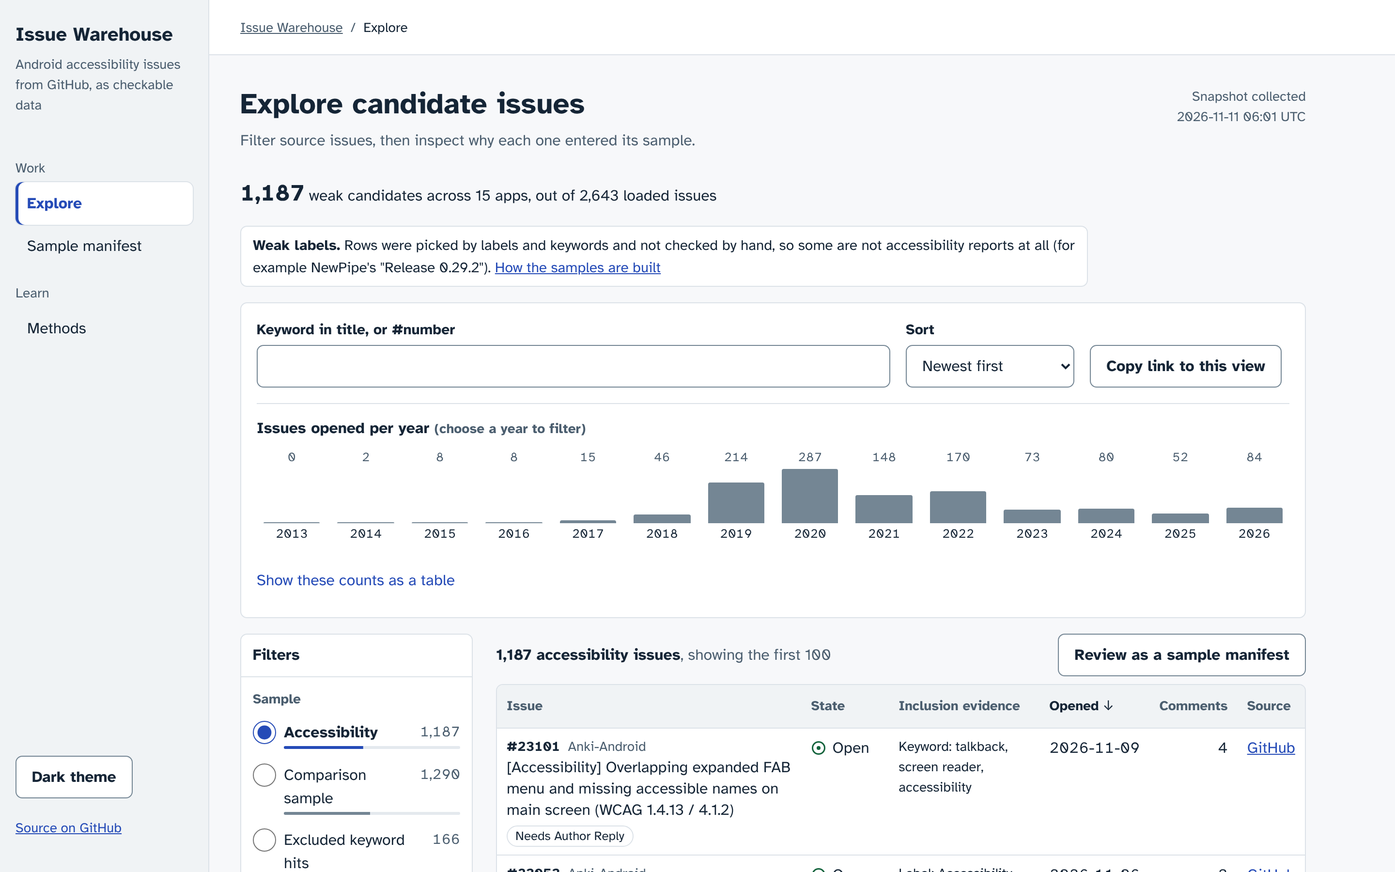
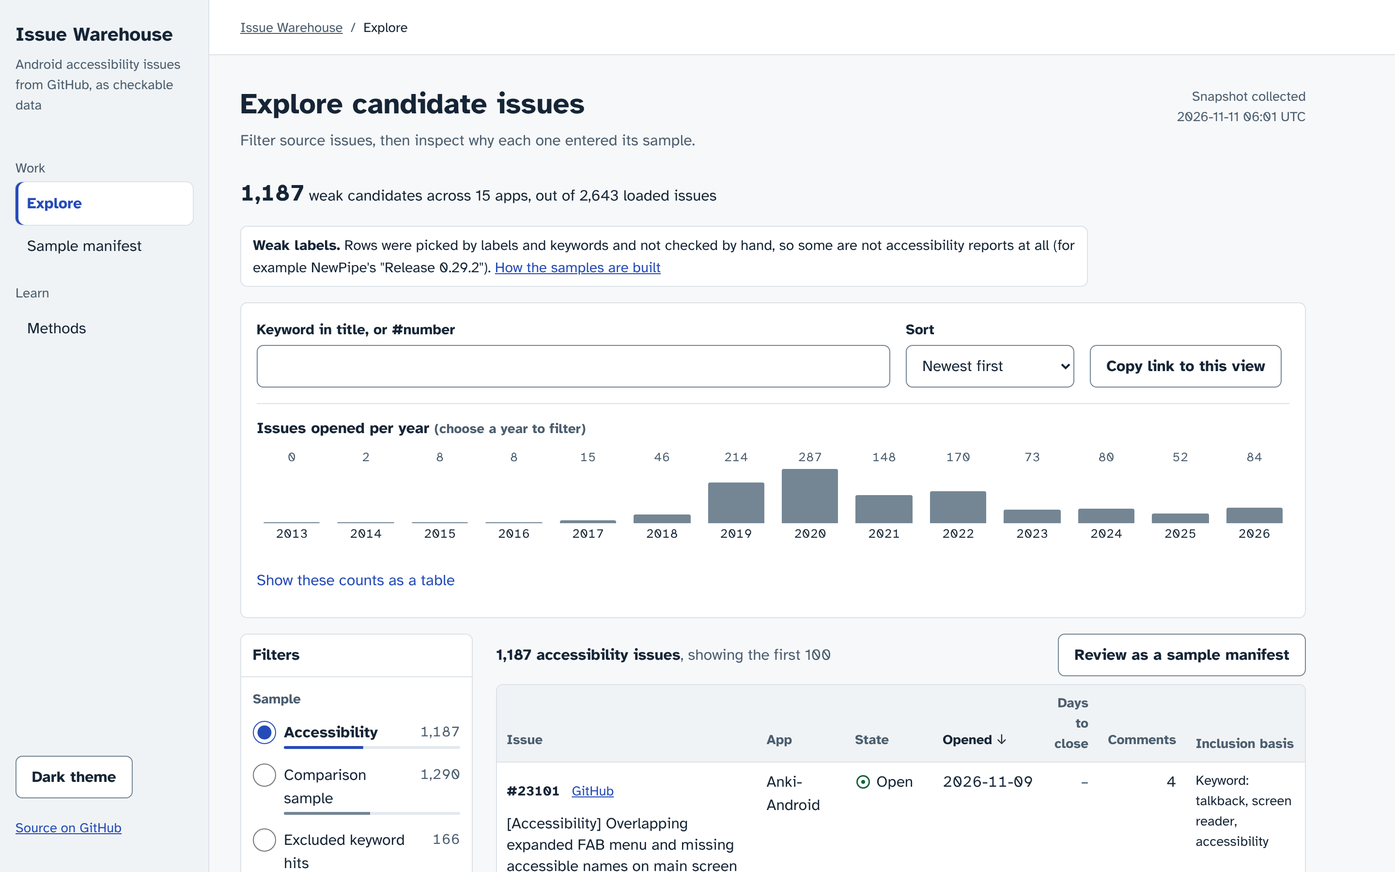
Explorer review fixes: 44 px targets, restored columns, stacked rows, tests
- In-app Back/Forward test for a filter and a year bar; fails when the
  syncFromURL state branch is disabled (sabotage run in the PR body).
- Menu Escape/Close focus test also covers the pointer path, so it fails
  without the page's close handler.
- 44 px targets for chips, GitHub links, title and sort buttons, with a
  test over Explore and Manifest at 320 and 1440 px.
- Days to close and App columns restored with their sort tests.
- Issues table stacks its rows (container query, < 820 px) instead of
  scrolling at 1000-1360 px; the scroll hint shows only when it scrolls.
- Meta description without hardcoded counts; manifest preview rendered only
  on its route; "Inclusion basis" used everywhere; year-only strip
  documented; download buttons above the caveat.
- anti-slop R-39: footer landmark, pointer layer, active states; primary
  button hover no longer turns light behind white text.

make e2e: 75 passed; make test: 103 passed.

Claude-Session: https://claude.ai/code/session_01SBDy3AAAGa7xAC8BzFcKKn

diff --git a/docs/explorer.css b/docs/explorer.css
@@ -20,7 +20,17 @@ html{font-size:16px}
 body{background:var(--canvas);line-height:1.5}
 h1,h2,h3{line-height:1.2}
 h1{font-size:1.875rem;margin:0 0 8px}
+/* Programmatic focus targets (route headings, the results region) get no ring; every
+   interactive control keeps the ui.css :focus-visible ring (anti-slop R-32). */
 [tabindex="-1"]:focus{outline:none}
+/* anti-slop R-39: one pointer layer for every enabled control, distinct active state. */
+a[href],button:not(:disabled),summary,select:not(:disabled),label[for],input[type="checkbox"],input[type="radio"]{cursor:pointer}
+button:disabled,select:disabled,input:disabled{cursor:not-allowed}
+.btn:active,.chip:active,.tl-bar:active{background:var(--bg-inset)}
+.btn.primary:hover{background:#1f3f9c;border-color:#1f3f9c}
+.btn.primary:active{background:#19337f;border-color:#19337f}
+:root[data-theme="dark"] .btn.primary:hover{background:#b8caff;border-color:#b8caff}
+:root[data-theme="dark"] .btn.primary:active{background:#cfdbff;border-color:#cfdbff}
 .small{font-size:.875rem}
 .btn{min-height:44px;padding:8px 16px;border-color:var(--border-strong);background:var(--bg)}
 .btn.primary{border-color:var(--accent)}
@@ -89,7 +99,7 @@ h2.sub{font-size:1rem;margin:0 0 8px}
 .chips{display:flex;flex-wrap:wrap;align-items:center;gap:8px;margin-top:12px}
 .chips.none{display:none}
 .chips ul{display:flex;flex-wrap:wrap;gap:8px;list-style:none;margin:0;padding:0}
-.chip{display:inline-flex;align-items:center;gap:6px;min-height:36px;max-width:100%;padding:4px 6px 4px 12px;border:1px solid var(--border-strong);border-radius:2em;background:var(--accent-subtle);color:var(--fg);font:inherit;font-size:.9375rem;cursor:pointer;text-align:left}
+.chip{display:inline-flex;align-items:center;gap:6px;min-height:44px;max-width:100%;padding:4px 6px 4px 12px;border:1px solid var(--border-strong);border-radius:2em;background:var(--accent-subtle);color:var(--fg);font:inherit;font-size:.9375rem;cursor:pointer;text-align:left}
 .chip span:first-child{overflow:hidden;text-overflow:ellipsis;white-space:nowrap;max-width:60vw}
 .chip .x{display:inline-flex;align-items:center;justify-content:center;width:24px;height:24px;border-radius:50%;font-size:1.05em;line-height:1}
 .chip:hover .x{background:var(--bg-inset)}
@@ -116,22 +126,21 @@ h2.sub{font-size:1rem;margin:0 0 8px}
 .find-label{display:block;font-size:.875rem;margin-bottom:4px}
 #label-find{width:100%;margin-bottom:8px}
 
-.results{min-width:0}
+.results{min-width:0;container:results / inline-size}
 .results:focus{outline:none}
 .results-head{display:flex;flex-wrap:wrap;justify-content:space-between;align-items:center;gap:8px;margin-bottom:8px}
 #count{margin:0}
 .load-error{padding:12px;border:1px solid var(--bad);border-radius:var(--radius);background:var(--bad-subtle);color:var(--fg)}
-.scroll-hint{display:none;margin:0 0 8px;font-size:.875rem}
+.scroll-hint{margin:0 0 8px;font-size:.875rem}
 .c-key{display:none}
 .table-wrap{position:relative;overflow-x:auto;border:1px solid var(--border);border-radius:var(--radius);background:var(--bg)}
 .table-wrap:focus-visible{outline:2px solid var(--focus);outline-offset:2px}
 th{background:var(--bg-subtle);color:var(--fg-muted);font-size:.875rem}
 th,td{border-bottom-color:var(--border);padding:8px 12px}
 #table th,#table td{padding-left:10px;padding-right:10px}
-#table{min-width:700px}
-#table thead th{padding:0;white-space:nowrap}
-#table thead th.nosort{padding:8px 10px;vertical-align:middle}
-#table thead th button{all:unset;box-sizing:border-box;display:flex;align-items:center;gap:4px;width:100%;min-height:44px;padding:8px 10px;cursor:pointer}
+#table thead th{padding:0;vertical-align:bottom}
+#table thead th.nosort{padding:8px 10px}
+#table thead th button{all:unset;box-sizing:border-box;display:flex;align-items:center;gap:4px;width:100%;min-height:44px;min-width:44px;padding:8px 10px;cursor:pointer}
 #table thead th.num button{justify-content:flex-end}
 #table thead th button:focus-visible{outline:2px solid var(--focus);outline-offset:-2px}
 #table thead th[aria-sort] button{color:var(--fg)}
@@ -141,14 +150,15 @@ th,td{border-bottom-color:var(--border);padding:8px 12px}
 #table tbody tr:last-child td{border-bottom:0}
 td.num,th.num{text-align:right;font-variant-numeric:tabular-nums}
 .c-title{min-width:200px}
-.c-ref{display:flex;gap:8px;font-size:.875rem}
+.c-app{min-width:88px;overflow-wrap:anywhere}
+.c-ref{display:flex;align-items:center;gap:12px;font-size:.875rem}
 .num-ref{font-weight:700;font-variant-numeric:tabular-nums}
-.title-btn{all:unset;box-sizing:border-box;display:inline;color:var(--fg);cursor:pointer;overflow-wrap:anywhere;line-height:1.4}
+.title-btn{all:unset;box-sizing:border-box;display:flex;align-items:center;min-height:44px;color:var(--fg);cursor:pointer;overflow-wrap:anywhere;line-height:1.4}
 .title-btn:hover{color:var(--accent);text-decoration:underline}
 .title-btn:focus-visible{outline:2px solid var(--focus);outline-offset:2px;border-radius:2px}
 .c-labels{display:flex;flex-wrap:wrap;gap:4px;margin-top:4px}
 .c-labels .label{font-size:.8125rem;line-height:20px;max-width:220px;overflow:hidden;text-overflow:ellipsis;white-space:nowrap}
-.c-evidence{font-size:.875rem;min-width:120px}
+.c-evidence{font-size:.875rem;min-width:116px}
 .c-evidence .ev{display:block}
 .c-date{white-space:nowrap;font-variant-numeric:tabular-nums}
 .c-state{display:inline-flex;align-items:center;gap:6px;white-space:nowrap}
@@ -156,10 +166,12 @@ td.c-state{display:table-cell}
 td.c-state .st-icon{vertical-align:-3px;margin-right:6px}
 .st-icon.open{color:var(--ok)}
 .st-icon.closed{color:var(--fg-muted)}
-.c-src{white-space:nowrap}
-.gh-link{display:inline-flex;align-items:center;min-height:24px}
+.gh-link{display:inline-flex;align-items:center;min-height:44px;min-width:44px}
 td.empty{padding:24px 12px;text-align:center}
 .more{display:flex;justify-content:center;padding:16px 0}
+.foot{margin-top:auto;padding:16px 32px;border-top:1px solid var(--border);background:var(--bg);font-size:.875rem;color:var(--fg-muted)}
+.foot p{margin:0;max-width:90ch}
+.foot a{display:inline-flex;align-items:center;min-height:44px}
 
 /* ---------- Sample manifest ---------- */
 .status-line{margin:0 0 16px}
@@ -224,7 +236,6 @@ dialog.sheet[open]{display:flex;flex-direction:column;gap:8px}
   .facets[open] #facet-list{display:grid;grid-template-columns:repeat(auto-fill,minmax(min(100%,240px),1fr))}
   .facet{border-bottom:0;border-top:1px solid var(--border)}
   .facet:first-child{border-top:0}
-  .scroll-hint{display:block}
 }
 /* Intermediate widths: no permanent rail; the header Menu button opens the sheet. */
 @media (max-width:999px){
@@ -239,11 +250,12 @@ dialog.sheet[open]{display:flex;flex-direction:column;gap:8px}
   .snapshot{text-align:left}
   .filters{padding:12px}
   dialog#detail{padding:12px 16px 20px}
-  .scroll-hint{display:none}
-  /* Phones: each issue is a stacked row, so nothing scrolls sideways. Roles are set in the
-     markup so the cells are still announced as a table. */
+}
+/* When the results column is narrower than the seven columns need (phones, and 1000-1360 px
+   desktops where the rail and facets take room), each issue is a stacked row, so nothing
+   scrolls sideways. Roles are set in the markup so the cells are still announced as a table. */
+@container results (max-width:819px){
   #table,#table thead,#table tbody,#table tr,#table th,#table td{display:block}
-  #table{min-width:0}
   #table thead tr{display:flex;flex-wrap:wrap;gap:0 4px;padding:2px 4px;background:var(--bg-subtle);border-bottom:1px solid var(--border)}
   #table thead th{border:0;background:none}
   #table thead th.nosort{display:none}

diff --git a/docs/explorer.js b/docs/explorer.js
@@ -315,7 +315,7 @@
     const body = $('rows');
     body.replaceChildren();
     if (!view.length) {
-      body.append(el('tr', { role: 'row' }, el('td', { role: 'cell', colspan: 6, class: 'empty' },
+      body.append(el('tr', { role: 'row' }, el('td', { role: 'cell', colspan: 7, class: 'empty' },
         'No issues match. ', el('button', { type: 'button', class: 'btn link', 'data-action': 'clear', text: 'Clear filters' }))));
     }
     for (const issue of view.slice(0, shown)) body.append(row(issue));
@@ -327,6 +327,14 @@
       else th.removeAttribute('aria-sort');
     }
     $('sort').value = SORT_OPTIONS.has(`${state.sort}:${state.dir}`) ? `${state.sort}:${state.dir}` : '';
+    updateScrollHint();
+  }
+
+  // The hint is shown exactly when the table is wider than its region (it normally stacks
+  // its rows instead of scrolling, so this is a fallback, never the plan).
+  function updateScrollHint() {
+    const wrap = document.querySelector('#results .table-wrap');
+    $('scroll-hint').hidden = !(wrap.offsetWidth && wrap.scrollWidth > wrap.clientWidth + 1);
   }
 
   // Explicit table roles keep rows and cells announced as a table when the narrow
@@ -338,16 +346,20 @@
     const [, name] = issue.repo.split('/');
     return el('tr', { role: 'row' },
       cell({ class: 'c-title' },
-        el('span', { class: 'c-ref' }, el('span', { class: 'num-ref', text: `#${issue.number}` }), el('span', { class: 'muted', title: issue.repo, text: name })),
+        el('span', { class: 'c-ref' }, el('span', { class: 'num-ref', text: `#${issue.number}` }),
+          el('a', { class: 'gh-link', href: issue.url, rel: 'noopener noreferrer', text: 'GitHub' },
+            el('span', { class: 'sr-only', text: ` issue ${issue.repo} #${issue.number}` }))),
         el('button', { type: 'button', class: 'title-btn', 'data-idx': String(issue.idx), text: issue.title }),
         issue.labels.length ? el('span', { class: 'c-labels' }, ...issue.labels.slice(0, 3).map((l) => el('span', { class: 'label', text: l })),
           issue.labels.length > 3 ? el('span', { class: 'muted small', text: `+${issue.labels.length - 3}` }) : null) : null),
+      cell({ class: 'c-app' }, el('span', { title: issue.repo, text: name })),
       cell({ class: `c-state ${issue.state}` }, stateIcon(issue.state), el('span', { text: issue.state === 'open' ? 'Open' : 'Closed' })),
-      cell({ class: 'c-evidence' }, key('Evidence'), ...M.evidence(issue, data).map((t) => el('span', { class: 'ev', text: t }))),
       cell({ class: 'c-date' }, key('Opened'), el('time', { datetime: issue.created, text: day(issue.created) })),
+      cell({ class: 'num' }, key('Days to close'), issue.days === null
+        ? el('span', null, el('span', { 'aria-hidden': 'true', class: 'muted', text: '–' }), el('span', { class: 'sr-only', text: 'not closed' }))
+        : el('span', { text: nf.format(Math.round(issue.days)) })),
       cell({ class: 'num' }, key('Comments'), el('span', { text: nf.format(issue.comments) })),
-      cell({ class: 'c-src' }, el('a', { class: 'gh-link', href: issue.url, rel: 'noopener noreferrer', text: 'GitHub' },
-        el('span', { class: 'sr-only', text: ` issue ${issue.repo} #${issue.number}` }))));
+      cell({ class: 'c-evidence' }, key('Inclusion basis'), ...M.evidence(issue, data).map((t) => el('span', { class: 'ev', text: t }))));
   }
 
   function renderChips() {
@@ -376,7 +388,7 @@
     renderTimeline();
     renderChips();
     renderResults(resetPage);
-    renderManifest();
+    if (route === 'manifest') renderManifest(); // built only when its screen is shown
     if ($('q') !== document.activeElement) $('q').value = state.q;
   }
 
@@ -408,7 +420,7 @@
         el('td', null, el('span', { class: 'id', text: i.id })),
         el('td', { text: i.state }),
         el('td', { text: M.inclusionBasis(i, data).join('; ') }),
-        el('td', null, el('a', { href: i.url, rel: 'noopener noreferrer', text: 'GitHub' }, el('span', { class: 'sr-only', text: ` issue ${i.id}` })))));
+        el('td', null, el('a', { class: 'gh-link', href: i.url, rel: 'noopener noreferrer', text: 'GitHub' }, el('span', { class: 'sr-only', text: ` issue ${i.id}` })))));
     }
     $('manifest-shown').textContent = list.length > MANIFEST_PREVIEW
       ? `(showing ${nf.format(MANIFEST_PREVIEW)} of ${nf.format(list.length)}; the download has all of them)` : '';
@@ -594,6 +606,8 @@
       else a.removeAttribute('aria-current');
     }
     if (next !== 'explore') closeDetail();
+    if (next === 'manifest' && data && !loadError) renderManifest();
+    if (next === 'explore' && data && !loadError) updateScrollHint();
     if (next === 'methods' && data) drawChart();
     if (section) {
       $(section).scrollIntoView();
@@ -804,6 +818,7 @@
         const w = $('chart').clientWidth;
         if (w && Math.abs(w - last) > 8) { last = w; drawChart(); }
       }).observe($('chart'));
+      new ResizeObserver(() => { if (route === 'explore') updateScrollHint(); }).observe(document.querySelector('#results .table-wrap'));
     }
     if (window.matchMedia('(max-width: 899px)').matches) $('facets').open = false;
   }
@@ -826,7 +841,7 @@
       node.setAttribute('role', 'alert');
       node.textContent = msg;
     }
-    $('rows').replaceChildren(el('tr', { role: 'row' }, el('td', { role: 'cell', colspan: 6, class: 'empty', text: 'No issues to show: the data file did not load.' })));
+    $('rows').replaceChildren(el('tr', { role: 'row' }, el('td', { role: 'cell', colspan: 7, class: 'empty', text: 'No issues to show: the data file did not load.' })));
     $('manifest-rows').replaceChildren(el('tr', null, el('td', { colspan: 4, class: 'empty', text: 'No manifest: the data file did not load.' })));
     $('chart').replaceChildren(el('p', { class: 'muted', text: 'Chart unavailable: the data file did not load.' }));
     for (const id of ['summary-candidates', 'summary-apps', 'summary-all', 'manifest-count', 'manifest-apps', 'manifest-filter', 'manifest-hash']) $(id).textContent = 'unavailable';

diff --git a/docs/index.html b/docs/index.html
@@ -6,7 +6,7 @@
 <meta http-equiv="Content-Security-Policy" content="default-src 'none'; script-src 'self'; style-src 'self'; font-src 'self'; img-src 'self'; connect-src 'self'; base-uri 'none'; form-action 'none'">
 <meta name="referrer" content="no-referrer">
 <title>Explore – Issue Warehouse</title>
-<meta name="description" content="Browse 2,643 GitHub issues from 15 open-source Android apps: accessibility-issue candidates and a date-matched comparison sample, with filters, an issues-over-time strip and a downloadable sample manifest.">
+<meta name="description" content="Browse GitHub issues from open-source Android apps: accessibility-issue candidates selected by labels and keywords, and a date-matched comparison sample, with filters, an issues-per-year strip and a downloadable sample manifest.">
 <meta name="theme-color" content="#f7f8fa">
 <link rel="icon" href="favicon.svg" type="image/svg+xml">
 <link rel="stylesheet" href="ui.css">
@@ -126,18 +126,19 @@
               <p id="count" aria-live="polite" aria-atomic="true">Loading issues…</p>
               <a class="btn" href="#/manifest" id="to-manifest">Review as a sample manifest</a>
             </div>
-            <p class="scroll-hint muted" id="scroll-hint">The table scrolls sideways: State, Inclusion evidence, Opened and Source are to the right of the issue.</p>
+            <p class="scroll-hint muted" id="scroll-hint" hidden>The table scrolls sideways: more columns are to the right of the issue.</p>
             <div class="table-wrap" role="region" aria-label="Issues table" aria-describedby="scroll-hint" tabindex="0">
               <table id="table" role="table">
                 <caption class="sr-only">Issues matching the filters. Choose a title to inspect it.</caption>
                 <thead role="rowgroup">
                   <tr role="row">
                     <th scope="col" role="columnheader" data-key="title"><button type="button">Issue</button></th>
+                    <th scope="col" role="columnheader" data-key="repo"><button type="button">App</button></th>
                     <th scope="col" role="columnheader" data-key="state"><button type="button">State</button></th>
-                    <th scope="col" role="columnheader" class="nosort">Inclusion evidence</th>
                     <th scope="col" role="columnheader" data-key="created"><button type="button">Opened</button></th>
+                    <th scope="col" role="columnheader" data-key="days" class="num"><button type="button">Days to close</button></th>
                     <th scope="col" role="columnheader" data-key="comments" class="num"><button type="button">Comments</button></th>
-                    <th scope="col" role="columnheader" class="nosort">Source</th>
+                    <th scope="col" role="columnheader" class="nosort">Inclusion basis</th>
                   </tr>
                 </thead>
                 <tbody id="rows" role="rowgroup"></tbody>
@@ -173,13 +174,13 @@
           </section>
         </div>
 
-        <p class="note"><strong>Label quality.</strong> <span id="manifest-caveat">Weak labels, not human ground truth.</span></p>
-
         <div class="download-bar">
           <button type="button" class="btn primary" id="dl-csv" disabled>Download CSV</button>
           <button type="button" class="btn" id="dl-json" disabled>Download JSON</button>
           <span class="muted small">Each row has the issue id, GitHub source URL, inclusion basis, filter, snapshot date and data hash.</span>
         </div>
+
+        <p class="note"><strong>Label quality.</strong> <span id="manifest-caveat">Weak labels, not human ground truth.</span></p>
 
         <h2 class="sub" id="mf-preview">Issues in the set <span id="manifest-shown" class="muted small"></span></h2>
         <div class="table-wrap" role="region" aria-label="Issues in the manifest" tabindex="0">
@@ -281,6 +282,9 @@
         <p><a class="btn primary" href="#/explore">Go to Explore</a></p>
       </section>
     </main>
+    <footer class="foot">
+      <p>Data: GitHub search API snapshot of <time data-bind="collected">2026-11-11</time>; issue titles belong to their authors. Built with AI assistance (Claude). <a href="https://github.com/anirudh763/a11y-issue-warehouse">Source and data on GitHub</a></p>
+    </footer>
   </div>
 </div>
 

diff --git a/docs/model.js b/docs/model.js
@@ -18,7 +18,7 @@
     label: "Has the app's accessibility label", talkback: 'Mentions TalkBack',
     'screen-reader': 'Mentions screen reader', accessibility: 'Mentions accessibility', a11y: 'Mentions a11y',
   };
-  const FILTERS = [['app', 'App'], ['category', 'Accessibility evidence'], ['state', 'State'],
+  const FILTERS = [['app', 'App'], ['category', 'Inclusion basis'], ['state', 'State'],
     ['year', 'Year opened'], ['label', 'GitHub label']];
   const CAVEAT = 'Weak labels, not human ground truth. Issues were selected by GitHub labels and ' +
     'search keywords and were not checked by hand. The accessibility sample includes feature ' +

diff --git a/README.md b/README.md
@@ -45,9 +45,11 @@ on GitHub Pages):
 
 - **Explore** (`#/explore`, the default) opens on the accessibility-issue sample (1,187
   issues from 15 apps), newest first. Each row shows the issue number, app, title, state,
-  why it was included (label or search words) and a GitHub link. Facets with live counts
+  opened date, days to close, comments, why it was included (inclusion basis: label or
+  search words) and a GitHub link; rows stack when the column is narrow. Facets with live counts
   filter by sample, app, inclusion basis, state and GitHub label; a strip of issues opened per
-  year (one button per year, with a table alternative) filters by year. Search titles or
+  year (one button per year, with a table alternative; year granularity only) filters by
+  year. Search titles or
   `#number`. Filters are kept in the address, for example
   `?app=signalapp/Signal-Android&state=open#/explore`. Choosing a title opens a panel with
   its labels, dates, which queries returned it and which search words it contains.
@@ -275,7 +277,7 @@ What this shows and does not show:
 
 ```
 make test   ->  79 passed
-make e2e    ->  66 passed (+1 screenshot test that runs only with SCREENSHOTS=1)
+make e2e    ->  75 passed (+1 screenshot test that runs only with SCREENSHOTS=1)
 ```
 
 `make test` counted 79 when this section was first written; it is 103 now (`python3 -m pytest -q tests`).
@@ -305,7 +307,10 @@ keeps focus inside, closes with Escape and returns focus; a route change moves f
 H1 and updates the title and `aria-current`; Back/Forward and deep links restore the screen
 and its filters; old links and unknown routes; light by default under an OS dark preference
 and dark only by choice (also when storage is blocked); the CSP is unchanged; the year strip's
-counts equal SQL, it works from the keyboard and its table has the same numbers.
+counts equal SQL, it works from the keyboard and its table has the same numbers; in-app
+Back/Forward revert and reapply a filter; every control on Explore and Sample manifest is at
+least 44 x 44 px at 320 and 1440 px; and the issues table does not scroll sideways at 1000,
+1250 or 1440 px (rows stack instead).
 `tests/web/manifest.test.mjs` downloads the manifest for 5 filter sets and checks that its ids
 equal the ids SQL selects (`expected_count.py --ids`), that the label basis matches the
 warehouse's `issue_sources`, that the hash equals the SHA-256 of the served file, and that an

diff --git a/DESIGN.md b/DESIGN.md
@@ -22,7 +22,7 @@ typography:
   mono: { family: "system ui-monospace", size: 14px, use: "the SHA-256 of the data file only" }
 spacing: [4, 8, 16, 24, 32]
 rounded: { control: 7px, label: 2em }
-targets: { controls: "44px min height", filter inputs: "24x24 inside a 44px row", year bars: "44px wide, 44px+ tall" }
+targets: { all controls: "44x44 CSS px min (tested on Explore and Manifest at 320 and 1440)", filter inputs: "24x24 inside a 44px clickable row", inline prose links: "exempt (WCAG 2.5.8)" }
 elevation: flat (1px borders; dialogs use a backdrop, no shadows)
 motion: none (state changes only; reduced motion respected)
 ---
@@ -39,7 +39,12 @@ WCAG 2.2 AA wins over anything here.
   gutter and about 1100 px of content.
 - Below 1000 px there is no permanent rail: a labelled **Menu** button opens a modal sheet
   (Escape closes it, focus returns to Menu, Tab wraps inside it).
-- Phones (640 px and below): 16 px gutter; issue rows stack so no column scrolls off screen.
+- Phones (640 px and below): 16 px gutter.
+- The issues table has seven columns (Issue with its GitHub link, App, State, Opened, Days to
+  close, Comments, Inclusion basis). When the results column is narrower than 820 px (a
+  container query, so phones and 1000-1360 px desktops alike) each issue becomes a stacked row
+  with labelled values and the header becomes a bar of sort buttons, instead of the table
+  scrolling sideways. If the table ever does scroll, a "scrolls sideways" hint is shown.
 
 ## Routes
 Hash routes so GitHub Pages can serve them: `#/explore` (default), `#/manifest`, `#/methods`;
@@ -54,6 +59,10 @@ result rows, as in a library or open-data catalogue. Above them an issues-over-t
 one button per year; its count follows every other filter, pressing it toggles the year filter
 (`aria-pressed`), and a "Show these counts as a table" disclosure gives the same numbers as a
 table. The year filter has no separate checkbox list; the strip is that filter.
+The strip is **year-only by design**: the snapshot spans 2013-2026 (14 bars), and monthly bars
+(about 160) would be too narrow to read or to hit at 44 px. Month filtering is not offered.
+The filter is called "Inclusion basis" everywhere (facet, chips, manifest filter definition,
+table column).
 
 ## Rules kept from the previous design
 - Issue text is untrusted: it reaches the page only through `textContent` or attributes.

diff --git a/CHANGELOG.md b/CHANGELOG.md
@@ -7,15 +7,16 @@
   on desktop, a Menu sheet below 1000 px, breadcrumb header, focus on the H1 after each route
   change. Light by default even under an OS dark preference; dark via a remembered button.
   Old links (`#about`, `#leakage`, `?app=...`) still work. CSP unchanged.
-- Explore rows now show the issue number, app, inclusion evidence and a GitHub link; an
-  issues-opened-per-year strip (keyboard operable, with a table alternative) replaces the
-  year checkbox list.
+- Explore rows show the issue number with a GitHub link, app, state, opened, days to close,
+  comments and inclusion basis (all sortable columns kept); rows stack when the results
+  column is under 820 px. An issues-opened-per-year strip (keyboard operable, with a table
+  alternative, year granularity) replaces the year checkbox list. All controls are 44 px.
 - Sample manifest: download the current filtered set as CSV or JSON with ids, GitHub URLs,
   inclusion basis, filter definition and query, snapshot date, the SHA-256 of
   `data/issues.json` and the weak-label caveat (`docs/model.js`). CSV cells that start with
   `= + - @` are prefixed with `'` so spreadsheets do not run them.
-- Tests: `tests/web/gate.test.mjs` (17) and `tests/web/manifest.test.mjs` (9); `make e2e` runs
-  all three browser files (66 tests). `tests/web/expected_count.py --ids` lists ids from SQL.
+- Tests: `tests/web/gate.test.mjs` (26) and `tests/web/manifest.test.mjs` (9); `make e2e` runs
+  all three browser files (75 tests). `tests/web/expected_count.py --ids` lists ids from SQL.
 - `DESIGN.md`, `AGENTS.md` and `CLAUDE.md` added.
 - Email redaction: real contact addresses in issue titles and bodies are replaced with
   `[email redacted]` (11 matches in 8 issues; 13 in 9 of the 496 pages). Placeholder,
